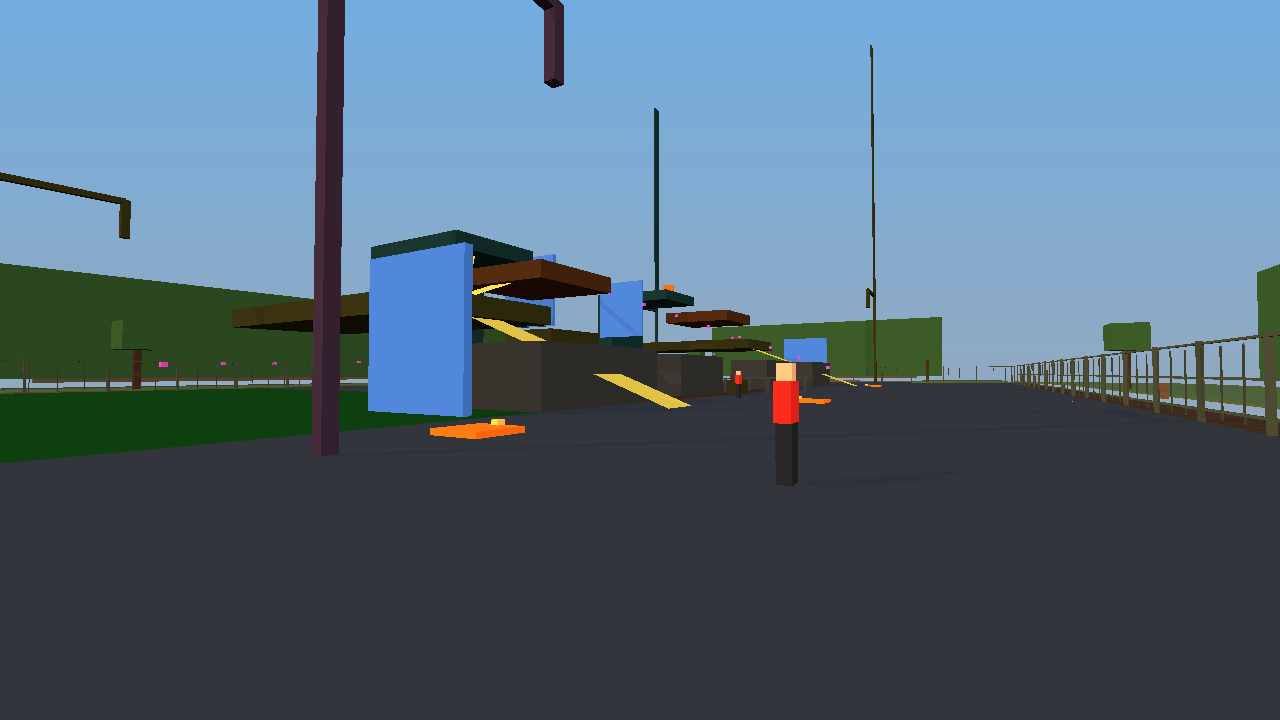
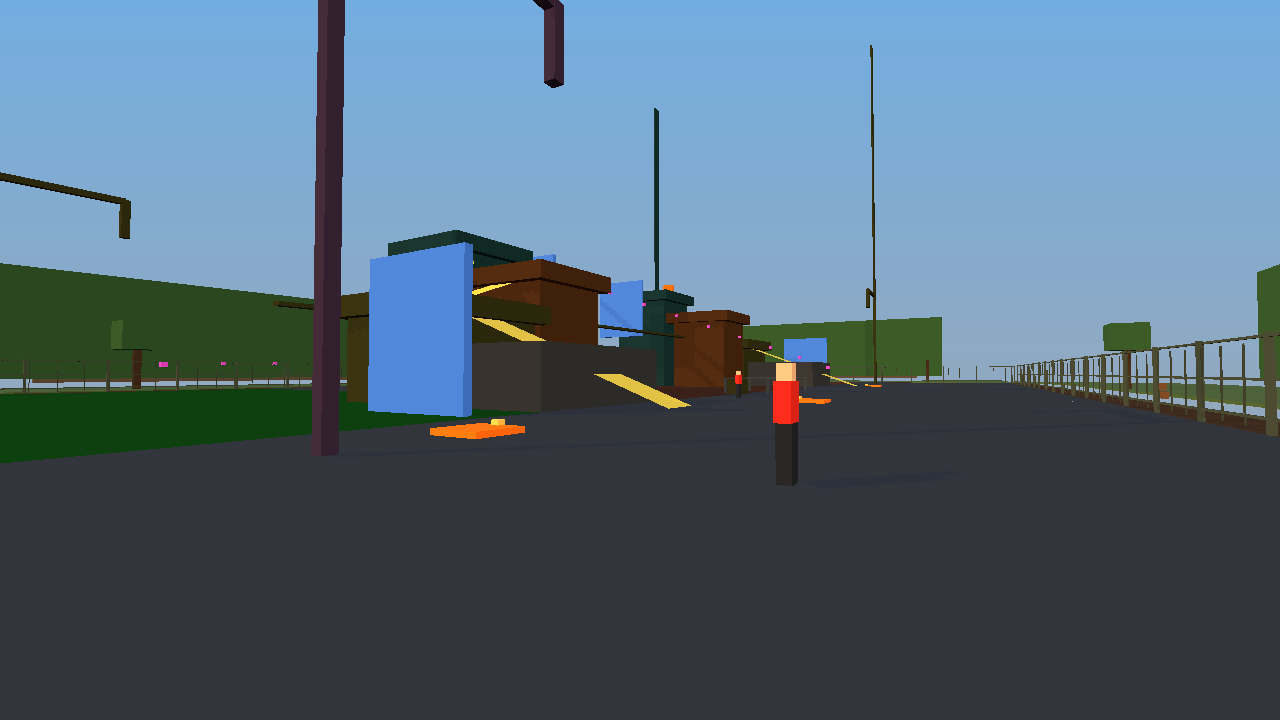
Fill Stack Yard tiers without moving the chase grid.
Inset full-height columns under the named decks so ground, mid, and roof read as solid stacks, and keep the catwalks too narrow to change a nav cell.

diff --git a/Assets/Scripts/Level/StackYardLayout.cs b/Assets/Scripts/Level/StackYardLayout.cs
@@ -938,7 +938,7 @@ namespace Tag.Level
                 + " s → wall-jump (Cling_Yard) " + hop.ToString("0.00", CultureInfo.InvariantCulture) + " s");
 
             doc.Append("\n## Tiers\n\n");
-            doc.Append("Ground, mid decks at 6 m, and roofs at 12 m. Concrete, olive, and teal piles mark those tiers. Catwalks leave each mid deck, warehouse roofs sit on the 12 m decks, and cranes mark the four corners. ");
+            doc.Append("Ground, mid decks at 6 m, and roofs at 12 m. Concrete steps, olive container stacks, amber rises, and teal warehouse roofs are solid piles on those footprints. Narrow catwalks link the towers, and cranes mark the four corners. ");
             doc.Append("Cling_Yard and Cling_East climb to the mid decks. ");
             doc.Append("Cling_Roof and Cling_Lane climb from the mid decks to the roofs. Launch_Mid and Launch_Roof throw onto those tiers. ");
             doc.Append("Zip_Cross leaves the west roof for the yard. Slides run back down both stairs. A fall off a roof lands inside the fence, above the kill plane.\n\n");
@@ -1121,21 +1121,20 @@ namespace Tag.Level
         /// </summary>
         static void AddYardMass(List<MegaParkP1Layout.Solid> list)
         {
-            // Solid teal warehouses share a top with the named roofs, so they join that group.
-            // z stays under 48.4 so the steer point at (70, 49) remains ground. Short of the zip at z=52.
-            Pile(list, "Wh_West", "Roof", "pad", 39f, 47.15f, 10f, 2.3f, 12f);
-            Pile(list, "Wh_East", "Roof", "pad", 70f, 47.15f, 8f, 2.3f, 12f);
-            Span(list, "Wh_Span", "Roof", "pad", 55f, 12.15f, 47.15f, 22f, 0.3f, 0.7f);
+            // Solid columns under the named decks, inset so the full-height skirt stays
+            // inside the deck and does not close a ground or stair cell.
+            InsetPile(list, "Crate_Mid_Fill", "Mid", "army", 30f, 34f, 10f, 8f, 6f);
+            InsetPile(list, "Crate_Rise_Fill", "Roof", "amber", 38f, 34f, 8f, 8f, 9f);
+            InsetPile(list, "Crate_Roof_Fill", "Roof", "pad", 38f, 42f, 8f, 8f, 12f);
+            InsetPile(list, "Stack_Mid_Fill", "Mid", "army", 78f, 34f, 10f, 8f, 6f);
+            InsetPile(list, "Stack_Rise_Fill", "Roof", "amber", 70f, 34f, 8f, 8f, 9f);
+            InsetPile(list, "Stack_Roof_Fill", "Roof", "pad", 70f, 42f, 8f, 8f, 12f);
 
-            // Olive catwalks leave the north lip of each mid deck and stop before the other tower.
-            Deck(list, "Cat_West", "Mid", "army", 29f, 44f, 8f, 12f, 6f);
-            Deck(list, "Cat_East", "Mid", "army", 78f, 44f, 8f, 12f, 6f);
-
-            // Gray containers at 3 m and an olive stack at 6 m. Clear of both ramps and Zip_Cross.
-            Pile(list, "Box_Yard", "Yard", "concrete", 46f, 26f, 8f, 4f, 3f);
-            Pile(list, "Box_Lane", "Lane", "concrete", 66f, 26f, 8f, 4f, 3f);
-            Pile(list, "Stack_Yard", "Mid", "army", 52f, 44f, 8f, 6f, 6f);
-            Pile(list, "Box_Mid", "Mid", "concrete", 62f, 36f, 6f, 4f, 3f);
+            // Catwalks and the roof bridge are too narrow to stand on.
+            Span(list, "Cat_West", "Mid", "army", 29f, 6.05f, 44f, 8f, 0.28f, 0.7f);
+            Span(list, "Cat_East", "Mid", "army", 78f, 6.05f, 44f, 8f, 0.28f, 0.7f);
+            Span(list, "Cat_Span", "Mid", "army", 54f, 6.05f, 36f, 28f, 0.22f, 0.7f);
+            Span(list, "Wh_Span", "Roof", "pad", 55f, 12.15f, 47f, 22f, 0.3f, 0.7f);
 
             Jib(list, "Landmark_Yard", "Yard", "knight", 14f, 18f, 1f, 0f);
             Jib(list, "Landmark_Lane", "Lane", "army", 96f, 18f, -1f, 0f);
@@ -1153,6 +1152,17 @@ namespace Tag.Level
             float x, float z, float sx, float sz, float top)
         {
             Add(list, name, zone, "block", mat, x, top * 0.5f, z, sx, top, sz, 0f);
+        }
+
+        /// <summary>
+        /// A full-height column 0.7 m inside the host deck. The 0.35 m head-check
+        /// around a ground-touching solid then stays on the deck, not on open ground.
+        /// </summary>
+        static void InsetPile(List<MegaParkP1Layout.Solid> list, string name, string zone, string mat,
+            float x, float z, float sx, float sz, float top)
+        {
+            const float inset = 0.7f;
+            Pile(list, name, zone, mat, x, z, sx - inset * 2f, sz - inset * 2f, top);
         }
 
         static void Jib(List<MegaParkP1Layout.Solid> list, string name, string zone, string mat,

diff --git a/Docs/StackYard_SkillRoutes.md b/Docs/StackYard_SkillRoutes.md
@@ -6,7 +6,7 @@ Expert chains use the locked motor. Coyote is 0.10 s, jump buffer is 0.16 s, and
 | --- | --- | --- | --- | --- |
 | RoofZip | Ride Zip Cross from the west roof down across the yard. Walking the street is the long way. | 3.02 s | 2.53 s | 16.1% |
 
-Start (38.0, 42.0) end (54.0, 12.0). Chevrons sit on Crate_Roof. zip 35.44 m (Zip_Cross) 2.53 s. The zip rides at 14 m/s and regrabs on its locked 0.30 s cooldown. Coyote 0.10 s covers the hop.
+Start (38.0, 42.0) end (68.0, 26.0). Chevrons sit on Crate_Roof. zip 35.44 m (Zip_Cross) 2.53 s. The zip rides at 14 m/s and regrabs on its locked 0.30 s cooldown. Coyote 0.10 s covers the hop.
 
 | YardPad | The yard launch pad cuts the south street at pad speed. | 1.30 s | 1.10 s | 15.9% |
 
@@ -19,7 +19,7 @@ Start (28.0, 16.0) end (16.0, 28.0). Chevrons sit on Cling_Yard. climb 2.40 m (C
 
 ## Tiers
 
-Ground, mid decks at 6 m, and roofs at 12 m. Concrete, olive, and teal piles mark those tiers. Catwalks leave each mid deck, warehouse roofs sit on the 12 m decks, and cranes mark the four corners. Cling_Yard and Cling_East climb to the mid decks. Cling_Roof and Cling_Lane climb from the mid decks to the roofs. Launch_Mid and Launch_Roof throw onto those tiers. Zip_Cross leaves the west roof for the yard. Slides run back down both stairs. A fall off a roof lands inside the fence, above the kill plane.
+Ground, mid decks at 6 m, and roofs at 12 m. Concrete steps, olive container stacks, amber rises, and teal warehouse roofs are solid piles on those footprints. Narrow catwalks link the towers, and cranes mark the four corners. Cling_Yard and Cling_East climb to the mid decks. Cling_Roof and Cling_Lane climb from the mid decks to the roofs. Launch_Mid and Launch_Roof throw onto those tiers. Zip_Cross leaves the west roof for the yard. Slides run back down both stairs. A fall off a roof lands inside the fence, above the kill plane.
 
 ## Chokepoints
 
